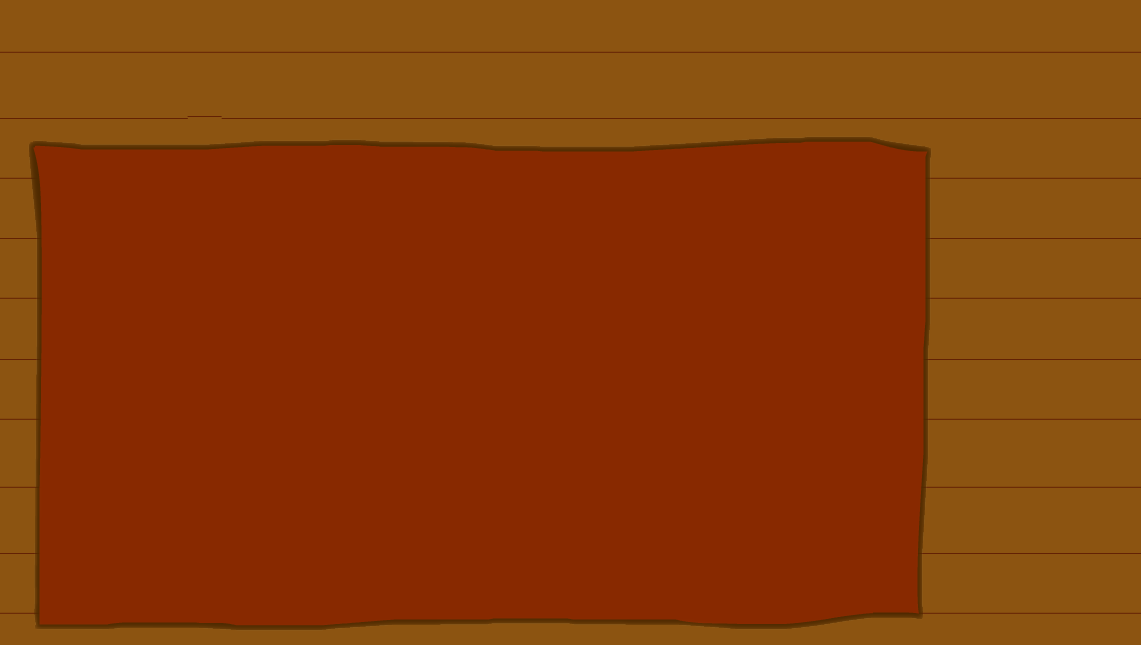
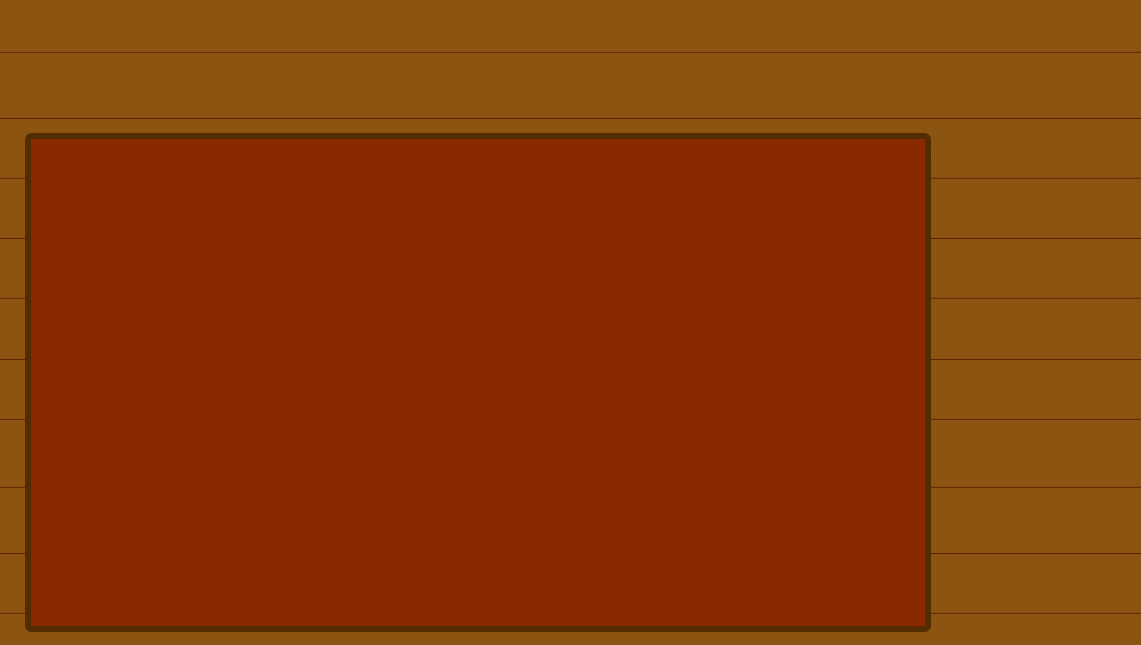
Created game over scene. New play_area
Former-commit-id: e03e36b322499ebb41c53565d74b3d861110580b

Changed region(s): [[0.0, 0.186, 0.8282, 0.9922]]

diff --git a/catasstrophy/MyScene.m b/catasstrophy/MyScene.m
@@ -34,6 +34,7 @@
 @property (nonatomic) NSTimeInterval totalTimeInterval;
 @property (nonatomic) BOOL shootingBool;
 @property (nonatomic) NSInteger currentWall;
+@property (nonatomic) NSInteger score;
 @property (nonatomic) double chaosCount;
 @property (nonatomic) double chaosBarWidth;
 @property (nonatomic) double dogBarHeight;
@@ -416,6 +417,7 @@ static inline CGPoint rwNormalize(CGPoint a)
 -(void)touchesEnded:(NSSet *)touches withEvent:(UIEvent *)event
 {
     self.shootingBool = NO;
+    double shotPower = self.shootingBarCharger.size.height/self.dogBarHeight;
     SKAction * scaleEmptyDogBar = [SKAction resizeToHeight:(self.dogBarHeight) duration:0];
     [self.shootingBarCharger runAction:[SKAction sequence:@[scaleEmptyDogBar]]];
     //music for on hit
@@ -427,41 +429,44 @@ static inline CGPoint rwNormalize(CGPoint a)
     NSLog(@"%f  %f",locationCheck.x, locationCheck.y);
     
     // Set up initial location of projectile
-    DogSpriteNode * projectile;
-    [projectile setShotPower:7];
+    DogSpriteNode * projectile = [[DogSpriteNode alloc] init];
+    [projectile setShotPower:shotPower];
     
-    [SKSpriteNode spriteNodeWithImageNamed:@"puppy.png"];
-    [self scaleSpriteNode:projectile scaleRatio:0.2];
+    SKSpriteNode * projectileNode = [SKSpriteNode spriteNodeWithImageNamed:@"puppy.png"];
+    [self scaleSpriteNode:projectileNode scaleRatio:0.2];
     
     //projectile physics
-    projectile.position = CGPointMake(tableCornerX+tableWidth/2, tableCornerY+tableHeight);
-    projectile.physicsBody = [SKPhysicsBody bodyWithCircleOfRadius:projectile.size.width/2];
-    projectile.physicsBody.dynamic = YES;
-    projectile.physicsBody.categoryBitMask = projectileCategory;
-    projectile.physicsBody.contactTestBitMask = itemCategory;
-    projectile.physicsBody.collisionBitMask = !aimCategory;
-    projectile.physicsBody.usesPreciseCollisionDetection = YES;
-    CGPoint normal = rwSub(self.aim.position, projectile.position);
+    projectileNode.position = CGPointMake(tableCornerX+tableWidth/2, tableCornerY+tableHeight);
+    projectileNode.physicsBody = [SKPhysicsBody bodyWithCircleOfRadius:projectileNode.size.width/2];
+    projectileNode.physicsBody.dynamic = YES;
+    projectileNode.physicsBody.categoryBitMask = projectileCategory;
+    projectileNode.physicsBody.contactTestBitMask = itemCategory;
+    projectileNode.physicsBody.collisionBitMask = !aimCategory;
+    projectileNode.physicsBody.usesPreciseCollisionDetection = YES;
+    CGPoint normal = rwSub(self.aim.position, projectileNode.position);
     CGFloat rotationRadians = atan2f(normal.y, normal.x) + 3.14/2;
 
     
     // Determine offset of location to projectile
-    CGPoint offset = rwSub(self.aim.position, projectile.position);
+    CGPoint offset = rwSub(self.aim.position, projectileNode.position);
     
     // Bail out if shooting up
     if (offset.y >= 0) return;
 
-    [self addChild:projectile];
+    [projectile setDogSprite:projectileNode];
+    NSLog(@"%f", projectile.dogSprite.size.height);
+    
+    [self addChild:projectile.dogSprite];
     
     //get the destination and duration for the animation
-    CGPoint projectileDestination = [self assetDestination:&offset assetPosition:projectile.position];
+    CGPoint projectileDestination = [self assetDestination:&offset assetPosition:projectile.dogSprite.position];
     float animationDuration = [self getAnimationDuration:@"projectile"];
     
     // Create the actions
     SKAction * rotateProjectile = [SKAction rotateToAngle:rotationRadians duration:0];
     SKAction * actionMove = [SKAction moveTo:projectileDestination duration:animationDuration];
     SKAction * actionMoveDone = [SKAction removeFromParent];
-    [projectile runAction:[SKAction sequence:@[rotateProjectile, actionMove, actionMoveDone]]];
+    [projectile.dogSprite runAction:[SKAction sequence:@[rotateProjectile, actionMove, actionMoveDone]]];
     SKAction * fadeClickedBarAway = [SKAction fadeOutWithDuration:0];
     [self.shootingBarBackgroundWhenClicked runAction:fadeClickedBarAway];
     SKAction * showUnclickedBar = [SKAction fadeInWithDuration:0];
@@ -500,7 +505,7 @@ static inline CGPoint rwNormalize(CGPoint a)
     }
 }
 
--(void)projectile:(SKSpriteNode *)projectile didCollideWithCat:(SKSpriteNode *)cat
+-(void)projectile:(DogSpriteNode *)projectile didCollideWithCat:(SKSpriteNode *)cat
 {
     NSLog(@"Hit");
     [projectile removeFromParent];
@@ -598,7 +603,7 @@ static inline CGPoint rwNormalize(CGPoint a)
 
 -(void)updateDogBar
 {
-    SKAction * scaleEmptyDogBar = [SKAction resizeToHeight:(self.dogBarHeight*(maxShotTime-(self.totalTimeInterval- self.beginningShotTime))/maxShotTime) duration:0];
+    SKAction * scaleEmptyDogBar = [SKAction resizeToHeight:(self.dogBarHeight*(maxShotTime-(self.totalTimeInterval- self.beginningShotTime))) duration:0];
     [self.shootingBarCharger runAction:[SKAction sequence:@[scaleEmptyDogBar]]];
 }
 
@@ -606,7 +611,7 @@ static inline CGPoint rwNormalize(CGPoint a)
 {
     if (self.chaosCount >= 100) {
         SKTransition *reveal = [SKTransition flipHorizontalWithDuration:0.5];
-        SKScene * gameOverScene = [[GameOverScreen alloc] initWithSize:self.size won:NO];
+        SKScene * gameOverScene = [[GameOverScreen alloc] initWithSize:self.size score:self.score];
         [self.view presentScene:gameOverScene transition: reveal];
     }
 }
@@ -630,7 +635,7 @@ static inline CGPoint rwNormalize(CGPoint a)
     if ((firstBody.categoryBitMask == projectileCategory) &&
         (secondBody.categoryBitMask == catCategory))
     {
-        [self projectile:(SKSpriteNode *) firstBody.node didCollideWithCat:(SKSpriteNode *) secondBody.node];
+        [self projectile:(DogSpriteNode *) firstBody.node didCollideWithCat:(SKSpriteNode *) secondBody.node];
     } else if (((firstBody.categoryBitMask == itemCategory) &&
                 (secondBody.categoryBitMask == catCategory))) {
         [self item:(SKSpriteNode *) firstBody.node didCollideWithCat:(SKSpriteNode *) secondBody.node];
@@ -671,7 +676,8 @@ static inline CGPoint rwNormalize(CGPoint a)
     
     //change updateSpeed and set the timer based on the speed
     self.updateSpeed=startSpeed-self.totalTimeInterval;
-    self.timerLabel.text = [NSString stringWithFormat:@"Time: %d", startSpeed-self.updateSpeed];
+    self.score = startSpeed-self.updateSpeed;
+    self.timerLabel.text = [NSString stringWithFormat:@"Time: %d", self.score];
     
     [self updateWithTimeSinceLastUpdate:timeSinceLast];
     

diff --git a/catasstrophy/GameOverScreen.m b/catasstrophy/GameOverScreen.m
@@ -8,46 +8,70 @@
 
 #import "GameOverScreen.h"
 #import "MyScene.h"
+#define Rgb2UIColor(r, g, b)  [UIColor colorWithRed:((r) / 255.0) green:((g) / 255.0) blue:((b) / 255.0) alpha:1.0]
 
+@interface GameOverScreen()
+@property (nonatomic) SKSpriteNode * background;
+@property (nonatomic) SKLabelNode * scoreText;
+@property (nonatomic) SKSpriteNode * replay;
+@property (nonatomic) SKSpriteNode * replayClicked;
+@end
 @implementation GameOverScreen
 
--(id)initWithSize:(CGSize)size won:(BOOL)won {
+//for scaling sprites
+- (void)scaleSpriteNode:(SKSpriteNode *)sprite scaleRatio:(float)scale
+{
+    sprite.xScale = scale;
+    sprite.yScale = scale;
+}
+
+-(id)initWithSize:(CGSize)size score:(NSInteger)score {
     if (self = [super initWithSize:size]) {
         
-        // 1
-        self.backgroundColor = [SKColor colorWithRed:1.0 green:1.0 blue:1.0 alpha:1.0];
+        //background
+        self.background =[SKSpriteNode spriteNodeWithImageNamed:@"game_over.png"];
+        self.background.position = CGPointMake(CGRectGetMidX(self.frame),CGRectGetMidY(self.frame));
+        [self scaleSpriteNode:self.background scaleRatio:0.5];
+        [self addChild:self.background];
         
-        // 2
-        NSString * message;
-        if (won) {
-            message = @"You Won!";
-        } else {
-            message = @"GAME OVER";
-        }
+        //score
+        self.scoreText = [SKLabelNode labelNodeWithFontNamed:@"GillSans-Bold"];
+        self.scoreText.fontSize = 30;
+        self.scoreText.fontColor = Rgb2UIColor(255, 150, 50);
+        self.scoreText.text = [NSString stringWithFormat:@"%d", score];
+        self.scoreText.position = CGPointMake(self.scoreText.frame.size.width*3.5, self.scoreText.frame.size.height*2);
+        [self addChild:self.scoreText];
         
-        // 3
-        SKLabelNode *label = [SKLabelNode labelNodeWithFontNamed:@"Chalkduster"];
-        label.text = message;
-        label.fontSize = 40;
-        label.fontColor = [SKColor blackColor];
-        label.position = CGPointMake(self.size.width/2, self.size.height/2);
-        [self addChild:label];
+        //replay button
         
-        // 4
-        [self runAction:
-         [SKAction sequence:@[
-                              [SKAction waitForDuration:3.0],
-                              [SKAction runBlock:^{
-             // 5
-             SKTransition *reveal = [SKTransition flipHorizontalWithDuration:0.5];
-             SKScene * myScene = [[MyScene alloc] initWithSize:self.size];
-             [self.view presentScene:myScene transition: reveal];
-         }]
-                              ]]
-         ];
+        self.replay = [SKSpriteNode spriteNodeWithImageNamed:@"gg_cat.png"];
+        [self scaleSpriteNode:self.replay scaleRatio:0.5];
+        self.replay.position = CGPointMake(self.background.size.width/2, self.background.size.height/2);
+        self.replay.name = @"replayButton";//how the node is identified later
+        [self addChild:self.replay];
         
+        //self.replayClicked = [SKSpriteNode spriteNodeWithImageNamed:@"gg_cat2.png"];
+        //[self scaleSpriteNode:self.replayClicked scaleRatio:0.6];
+        //self.replayClicked.position = CGPointMake(self.background.size.width/2, self.background.size.height/2);
+        //[self addChild:self.replayClicked];
+
     }
     return self;
+}
+
+- (void)touchesBegan:(NSSet *)touches withEvent:(UIEvent *)event
+{
+    UITouch *touch = [touches anyObject];
+    CGPoint location = [touch locationInNode:self];
+    SKNode *node = [self nodeAtPoint:location];
+    
+    //the only button on the screen is clicked
+    if ([node.name isEqualToString:@"replayButton"]) {
+        
+        //[NSThread sleepForTimeInterval:1];
+        SKScene * game = [[MyScene alloc] initWithSize:self.size];
+        [self.view presentScene:game];
+    }
 }
 
 @end

diff --git a/DogSpriteNode.h b/DogSpriteNode.h
@@ -10,7 +10,7 @@
 
 @interface DogSpriteNode : SKSpriteNode
 
-@property SKSpriteNode *dogSprite;
-@property int *shotPower;
+@property (strong) SKSpriteNode* dogSprite;
+@property double shotPower;
 
 @end

diff --git a/catasstrophy/GameOverScreen.h b/catasstrophy/GameOverScreen.h
@@ -10,6 +10,6 @@
 
 @interface GameOverScreen : SKScene
 
--(id)initWithSize:(CGSize)size won:(BOOL)won;
+-(id)initWithSize:(CGSize)size score:(NSInteger)score;
 
 @end
